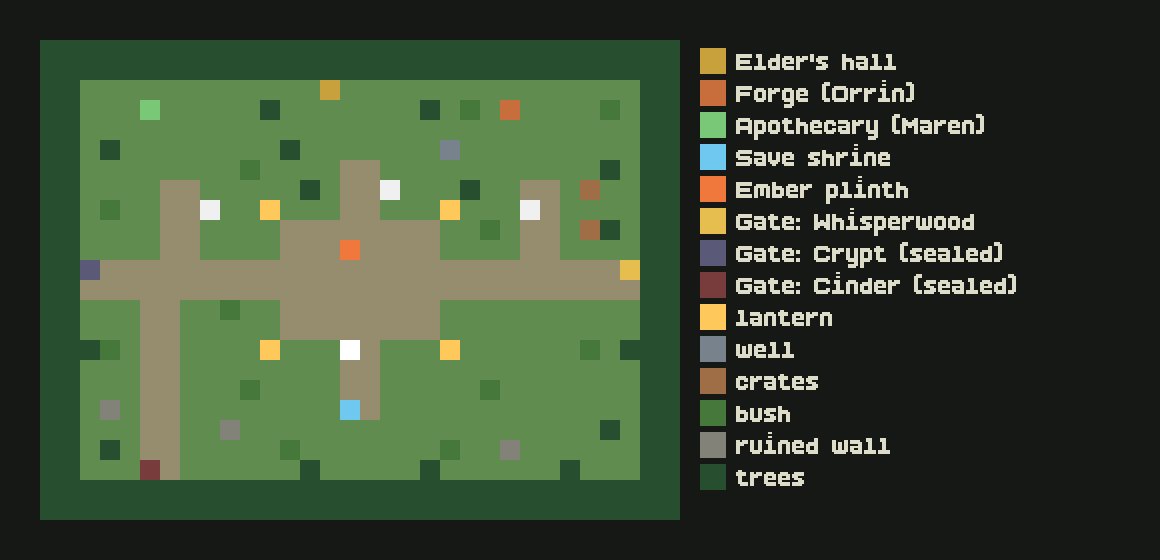
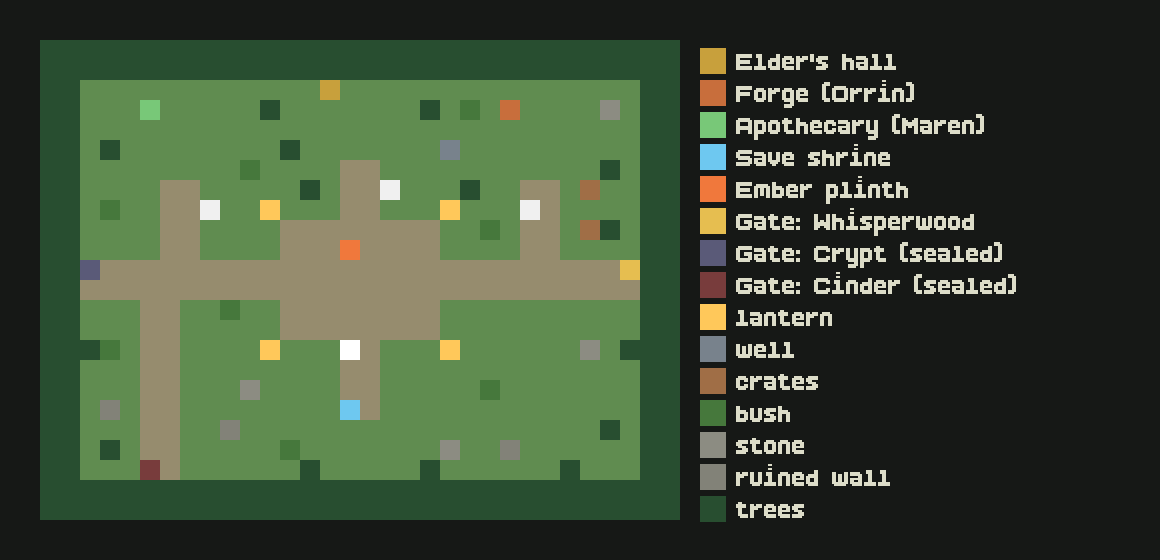
Town: real bush sprite (old one is now a stone), per-tree flip/scale/shade so the border isn't a hedge, no re-fetch of loaded textures

diff --git a/src/game/scenes/HubScene.ts b/src/game/scenes/HubScene.ts
@@ -34,6 +34,7 @@ const PROPS: Record<string, { tex: string; w: number; h: number; foot: [number, 
   well: { tex: "well", w: 48, h: 48, foot: [0.1, 0.6, 1.3, 0.9] },
   crates: { tex: "crates", w: 32, h: 32, foot: [0, 0.3, 1, 0.7] },
   bush: { tex: "bush", w: 32, h: 32, foot: [0.1, 0.4, 0.8, 0.6] },
+  stone: { tex: "stone", w: 32, h: 32, foot: [0.1, 0.4, 0.8, 0.6] },
   "ruin-wall": { tex: "ruin-wall", w: 64, h: 32, foot: [0, 0.3, 2, 0.6] },
 };
 
@@ -63,7 +64,9 @@ export class HubScene extends Phaser.Scene implements PlayerHost {
   preload() {
     this.load.spritesheet("town-tiles", "assets/tiles/town.png", { frameWidth: TILE, frameHeight: TILE });
     this.load.json("town-meta", "assets/tiles/town.json");
-    for (const p of ["house-elder", "house-forge", "house-apothecary", "shrine", "plinth", "tree", "gate", "gate-side", "signpost", "lantern", "well", "crates", "bush", "ruin-wall", "root", "block"]) this.load.image(p, `assets/sprites/props/${p}.png`);
+    // the scene restarts on every title/continue: re-fetching a texture that exists makes the loader log
+    // "Failed to process file", so only load what's missing
+    for (const p of ["house-elder", "house-forge", "house-apothecary", "shrine", "plinth", "tree", "gate", "gate-side", "signpost", "lantern", "well", "crates", "bush", "stone", "ruin-wall", "root", "block"]) if (!this.textures.exists(p)) this.load.image(p, `assets/sprites/props/${p}.png`);
     for (const n of ["blacksmith", "apothecary", "elder"]) this.load.image(`npc-${n}`, `assets/sprites/npc/${n}.png`);
     for (const i of ["potion", "bomb", "coin", "key"]) this.load.image(`icon-${i}`, `assets/ui/icons/${i}.png`);
     HERO.preload(this);
@@ -201,6 +204,14 @@ export class HubScene extends Phaser.Scene implements PlayerHost {
       const p = PROPS[a.kind];
       if (p) {
         const img = this.add.image(x, y, p.tex).setOrigin(0).setDepth(y + p.h - 6);
+        if (a.kind === "tree") {
+          // one tree sprite would read as a clipped hedge: vary flip, size and shade per tree (seeded by position)
+          const h = ((a.tx * 73 + a.ty * 151) % 97) / 97;
+          img.setFlipX(h > 0.5).setScale(0.94 + ((a.tx * 31 + a.ty * 17) % 7) * 0.02);
+          const shade = [0xffffff, 0xeaf2e4, 0xd8e6d0, 0xf4f0dc][(a.tx + a.ty * 3) % 4];
+          img.setTint(shade).setTintMode(Phaser.TintModes.MULTIPLY);
+          img.setPosition(x + (((a.tx * 5 + a.ty * 11) % 5) - 2), y + (((a.tx * 3 + a.ty * 7) % 5) - 2));
+        }
         if (a.kind.startsWith("gate")) {
           const sealed = !this.gateOpen(a.kind);
           const side = p.tex === "gate-side"; // posts top and bottom, road gap between (y 34..62 of the sprite)

diff --git a/tools/make_town.py b/tools/make_town.py
@@ -52,8 +52,10 @@ for x, y in [(11, 8), (20, 8), (11, 15), (20, 15)]:
 put(20, 5, "w")
 put(27, 7, "c")
 put(27, 9, "c")
-for x, y in [(3, 8), (10, 6), (21, 3), (28, 3), (3, 15), (10, 17), (22, 17), (27, 15), (12, 20), (20, 20), (9, 13), (22, 9)]:
+for x, y in [(3, 8), (10, 6), (21, 3), (3, 15), (22, 17), (12, 20), (9, 13), (22, 9)]:
     put(x, y, "u")
+for x, y in [(28, 3), (10, 17), (27, 15), (20, 20)]:
+    put(x, y, "s")
 for x, y in [(9, 19), (23, 20), (3, 18)]:
     put(x, y, "r")
 for x, y in [(3, 5), (11, 3), (12, 5), (28, 6), (3, 20), (26, 21), (28, 19), (13, 21), (19, 21), (29, 15), (2, 15), (13, 7), (19, 3), (28, 9), (21, 7)]:
@@ -72,7 +74,7 @@ data = {
         "E": "house-elder", "F": "house-forge", "A": "house-apothecary", "S": "shrine", "P": "plinth",
         "1": "gate-whisperwood", "2": "gate-crypt", "3": "gate-cinder",
         "b": "npc-blacksmith", "a": "npc-apothecary", "e": "npc-elder", "@": "spawn",
-        "l": "lantern", "w": "well", "c": "crates", "u": "bush", "r": "ruin-wall",
+        "l": "lantern", "w": "well", "c": "crates", "u": "bush", "s": "stone", "r": "ruin-wall",
     },
     "map": rows,
     "npcs": {
@@ -87,7 +89,7 @@ json.dump(data, open("src/game/data/emberfall-town.json", "w", encoding="utf-8")
 T = 10
 im = Image.new("RGB", (W * T + 260, H * T + 40), (22, 24, 22))
 d = ImageDraw.Draw(im)
-COL = {".": (96, 140, 80), "=": (150, 140, 110), "T": (40, 78, 48), "E": (200, 160, 60), "F": (200, 110, 60), "A": (120, 200, 120), "S": (110, 200, 240), "P": (240, 120, 60), "1": (230, 190, 80), "2": (90, 90, 120), "3": (120, 60, 60), "b": (240, 240, 240), "a": (240, 240, 240), "e": (240, 240, 240), "@": (255, 255, 255), "l": (255, 200, 90), "w": (120, 130, 140), "c": (160, 110, 70), "u": (70, 120, 60), "r": (130, 130, 120)}
+COL = {".": (96, 140, 80), "=": (150, 140, 110), "T": (40, 78, 48), "E": (200, 160, 60), "F": (200, 110, 60), "A": (120, 200, 120), "S": (110, 200, 240), "P": (240, 120, 60), "1": (230, 190, 80), "2": (90, 90, 120), "3": (120, 60, 60), "b": (240, 240, 240), "a": (240, 240, 240), "e": (240, 240, 240), "@": (255, 255, 255), "l": (255, 200, 90), "w": (120, 130, 140), "c": (160, 110, 70), "u": (70, 120, 60), "s": (140, 140, 130), "r": (130, 130, 120)}
 for y, row in enumerate(rows):
     for x, ch in enumerate(row):
         d.rectangle([20 + x * T, 20 + y * T, 20 + x * T + T - 1, 20 + y * T + T - 1], fill=COL.get(ch, (255, 0, 255)))
@@ -95,7 +97,7 @@ try:
     F = ImageFont.truetype("public/assets/fonts/EmberfallPixel.ttf", 16)
 except Exception:
     F = ImageFont.load_default()
-legend = [("E", "Elder's hall"), ("F", "Forge (Orrin)"), ("A", "Apothecary (Maren)"), ("S", "Save shrine"), ("P", "Ember plinth"), ("1", "Gate: Whisperwood"), ("2", "Gate: Crypt (sealed)"), ("3", "Gate: Cinder (sealed)"), ("l", "lantern"), ("w", "well"), ("c", "crates"), ("u", "bush"), ("r", "ruined wall"), ("T", "trees")]
+legend = [("E", "Elder's hall"), ("F", "Forge (Orrin)"), ("A", "Apothecary (Maren)"), ("S", "Save shrine"), ("P", "Ember plinth"), ("1", "Gate: Whisperwood"), ("2", "Gate: Crypt (sealed)"), ("3", "Gate: Cinder (sealed)"), ("l", "lantern"), ("w", "well"), ("c", "crates"), ("u", "bush"), ("s", "stone"), ("r", "ruined wall"), ("T", "trees")]
 for i, (ch, name) in enumerate(legend):
     y = 24 + i * 16
     d.rectangle([W * T + 30, y, W * T + 42, y + 12], fill=COL[ch])
